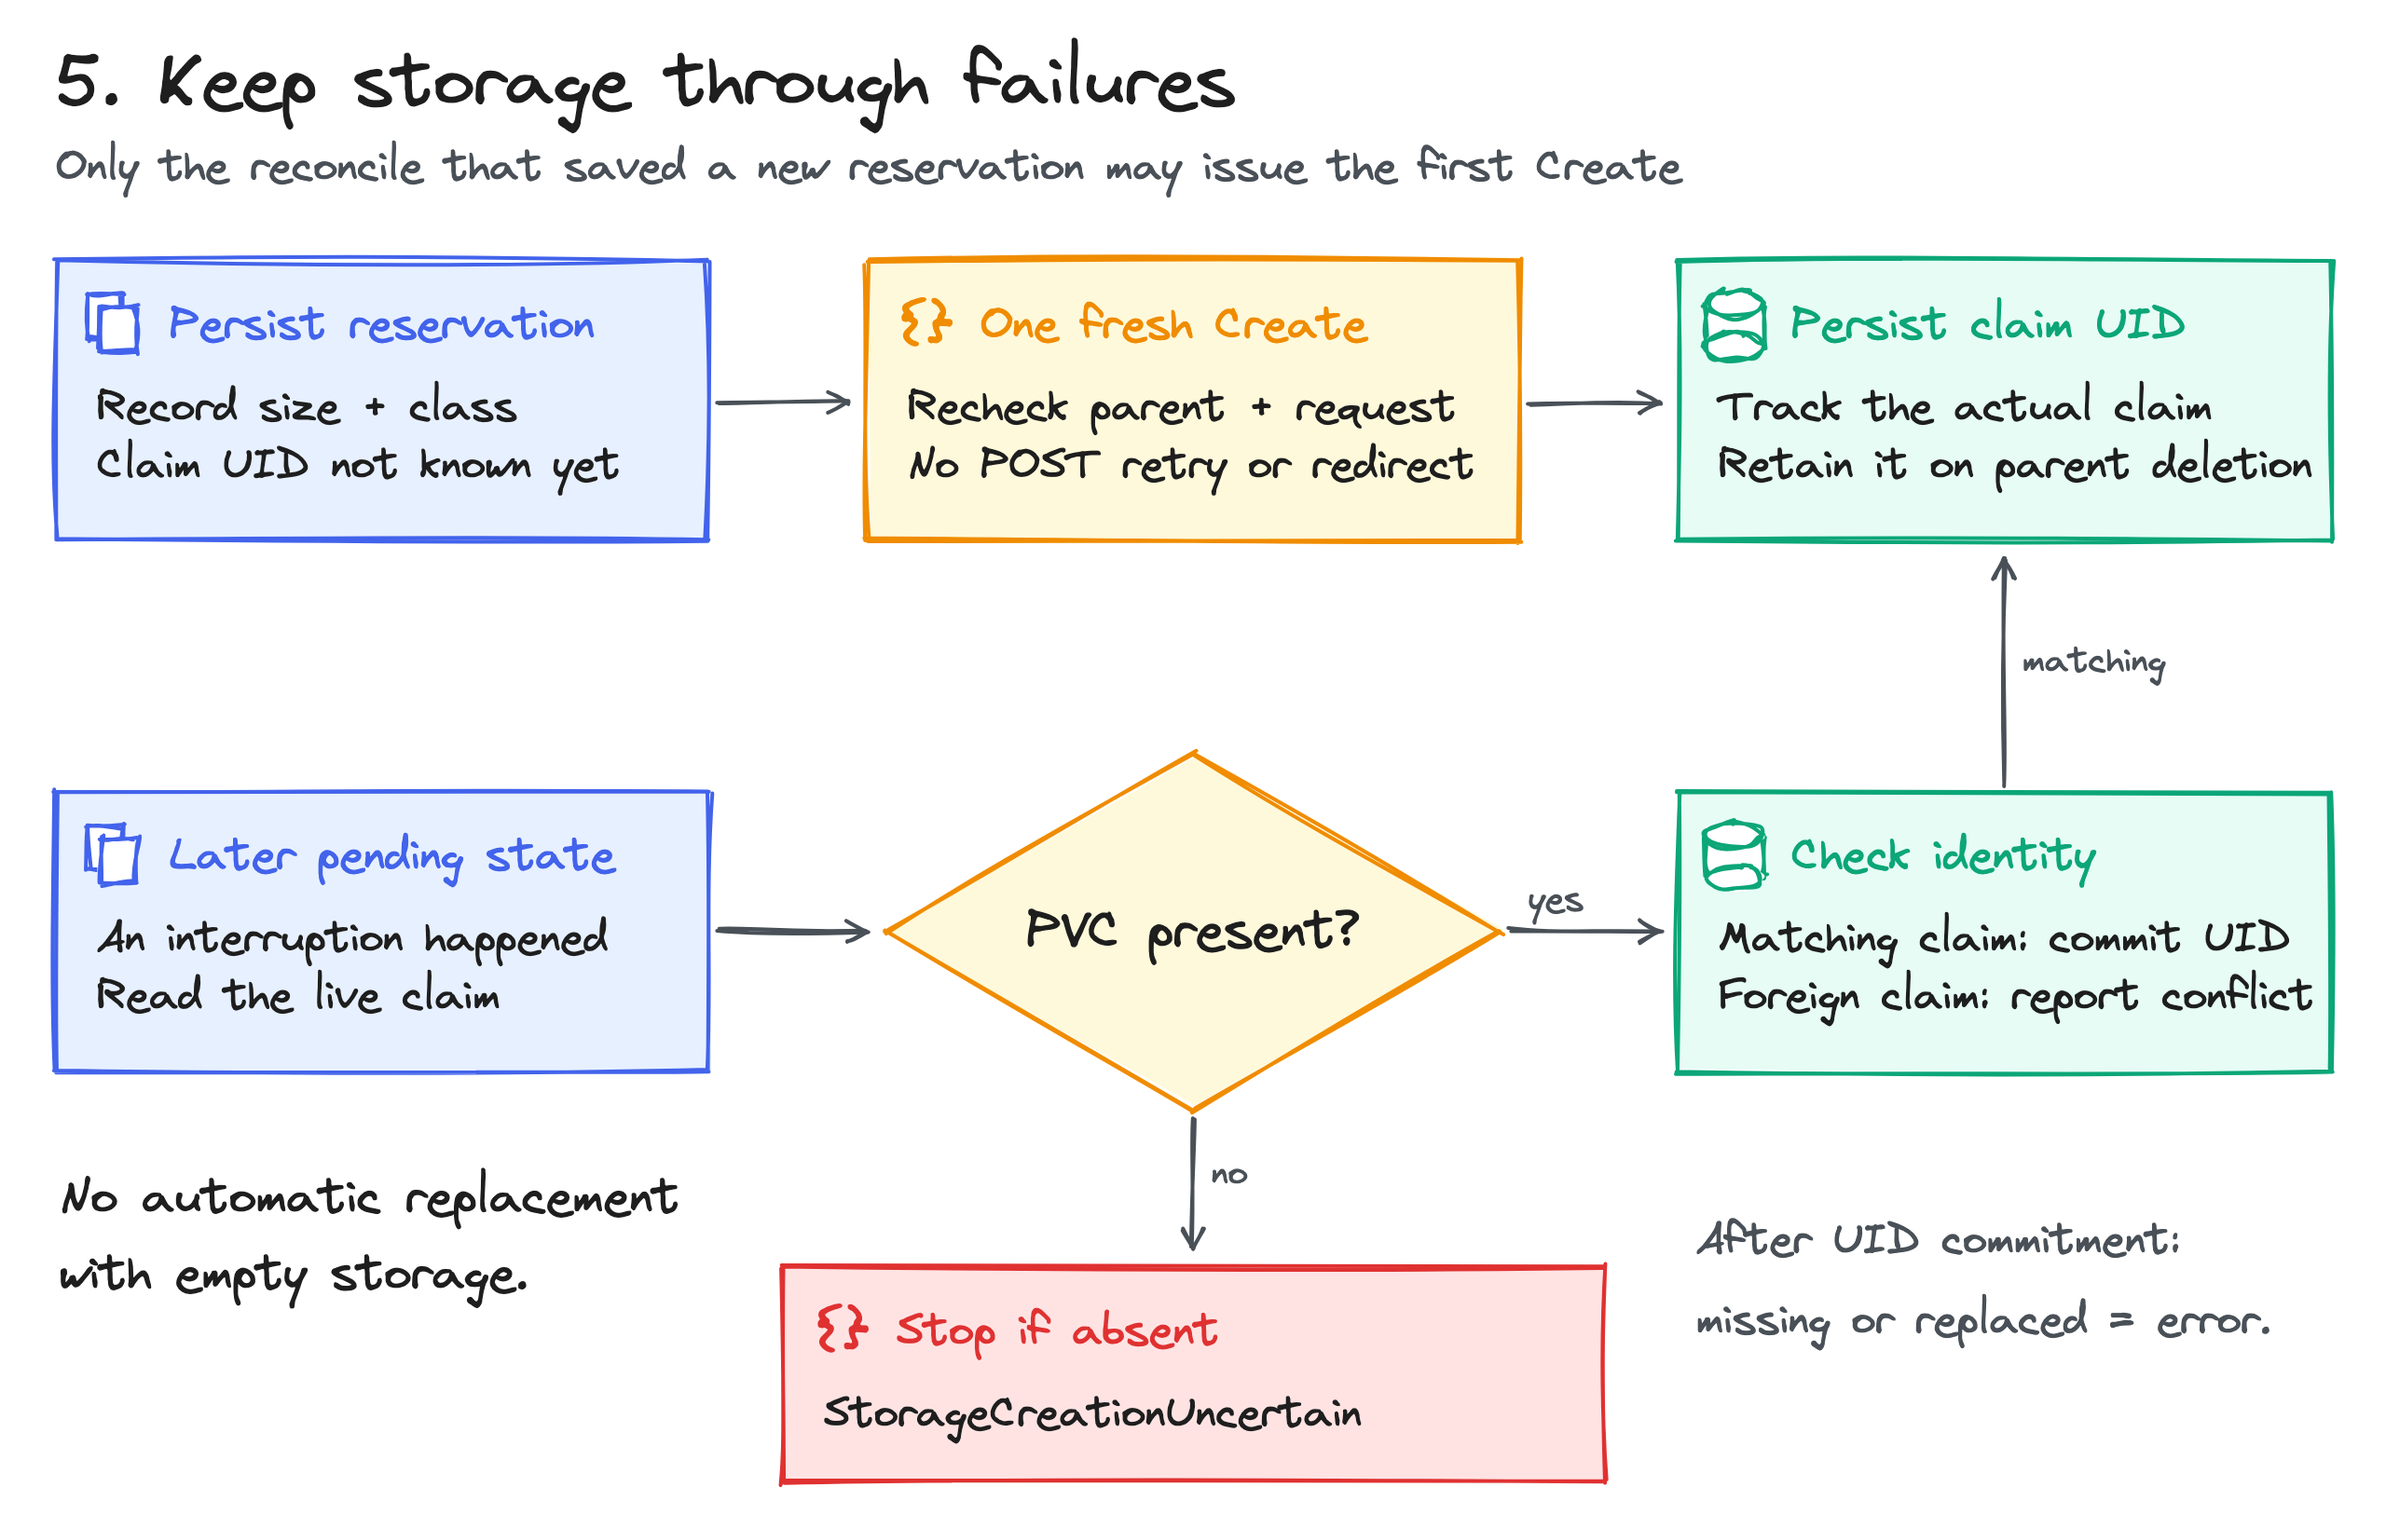
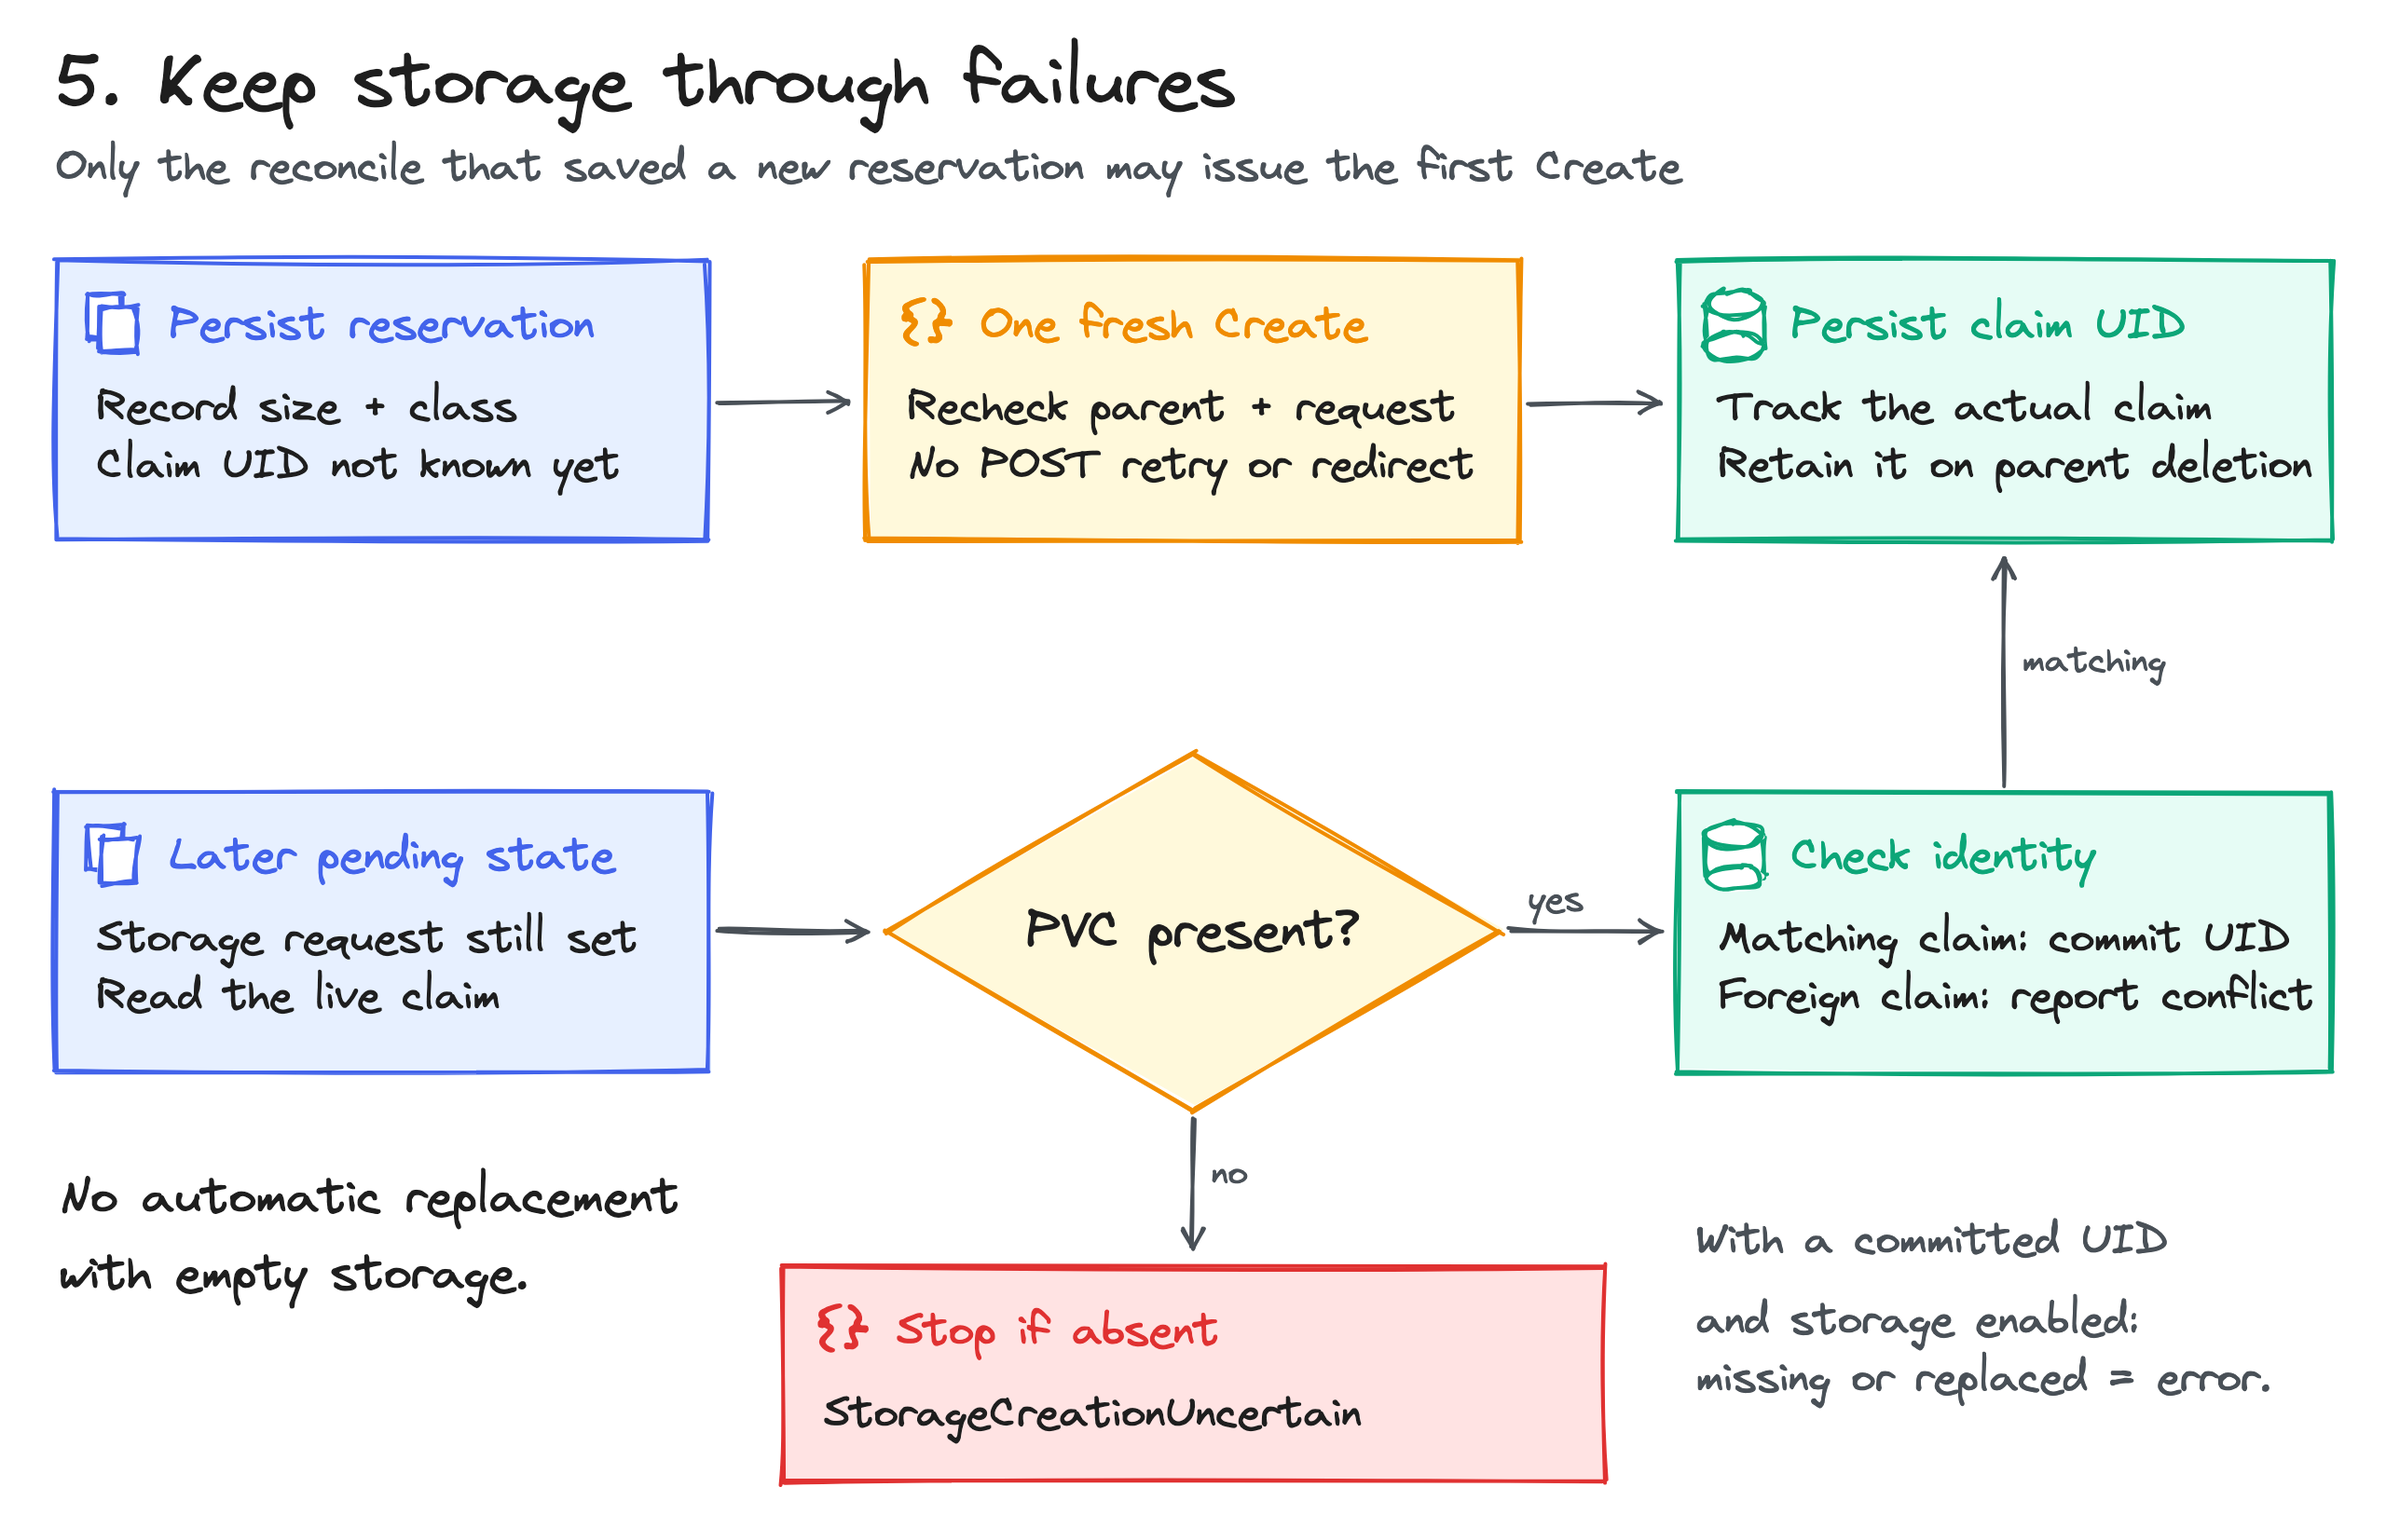
docs(kep): clarify storage checks after opt-out

Changed region(s): [[0.7188, 0.7774, 0.9375, 0.9329], [0.0312, 0.5909, 0.2812, 0.622]]

diff --git a/keps/0006-workload-policies/README.md b/keps/0006-workload-policies/README.md
@@ -267,10 +267,11 @@ reservation and storage input before doing so. The storage POST disables
 client retries and redirects. Unrelated status changes do not revoke it.
 
 After an interrupted request, a later reconcile can find the matching claim
-and record its UID. If the reservation exists but the claim is absent, it
-reports `StorageCreationUncertain`. It cannot tell whether creation never
+and record its UID. While storage is enabled, an existing reservation with an absent claim
+produces `StorageCreationUncertain`. It cannot tell whether creation never
 happened or the claim was created and then deleted. Guessing would risk
-replacing retained data with empty storage.
+replacing retained data with empty storage. Opt-out skips availability checks
+but keeps the storage record. Re-enabling storage never resets the reservation.
 
 The state annotation also records owned template values. A separate
 `plugins.karta.dev/result` annotation records `Applied` or `Error`, an input
@@ -286,7 +287,7 @@ against users who can edit the same workload.
 | Service deletion held by a finalizer | Keep the label and saved ownership until actual deletion |
 | Workload deletion | Stop changes; Kubernetes collects its Service; PVC remains |
 | Same workload name, new UID | Use different child names; do not adopt the old claim |
-| Committed PVC missing or replaced | Report an error; never create a replacement |
+| Committed PVC missing or replaced while storage is enabled | Report an error; never create a replacement |
 | Capacity or storage-class change | Report `StorageChangeUnsupported` |
 | Controller restart | Relist workloads and recover from persisted state |
 
@@ -297,7 +298,7 @@ Storage recovery has no reset API; a fresh request uses a new workload UID.
 
 ## Prior art
 
-- [CEL](https://cel.dev/overview/cel-overview): compile once, evaluate repeatedly, and return structured values to a host.
+- [CEL](https://cel.dev/overview/cel-overview): compile once and evaluate repeatedly against different inputs.
 - [Kubernetes controllers](https://kubernetes.io/docs/concepts/architecture/controller/): keep observed resources moving toward desired state through a control loop.
 - [controller-runtime conditional patches](https://github.com/kubernetes-sigs/controller-runtime/blob/v0.25.2/pkg/client/patch.go): include resourceVersion so a stale patch becomes a conflict.
 
